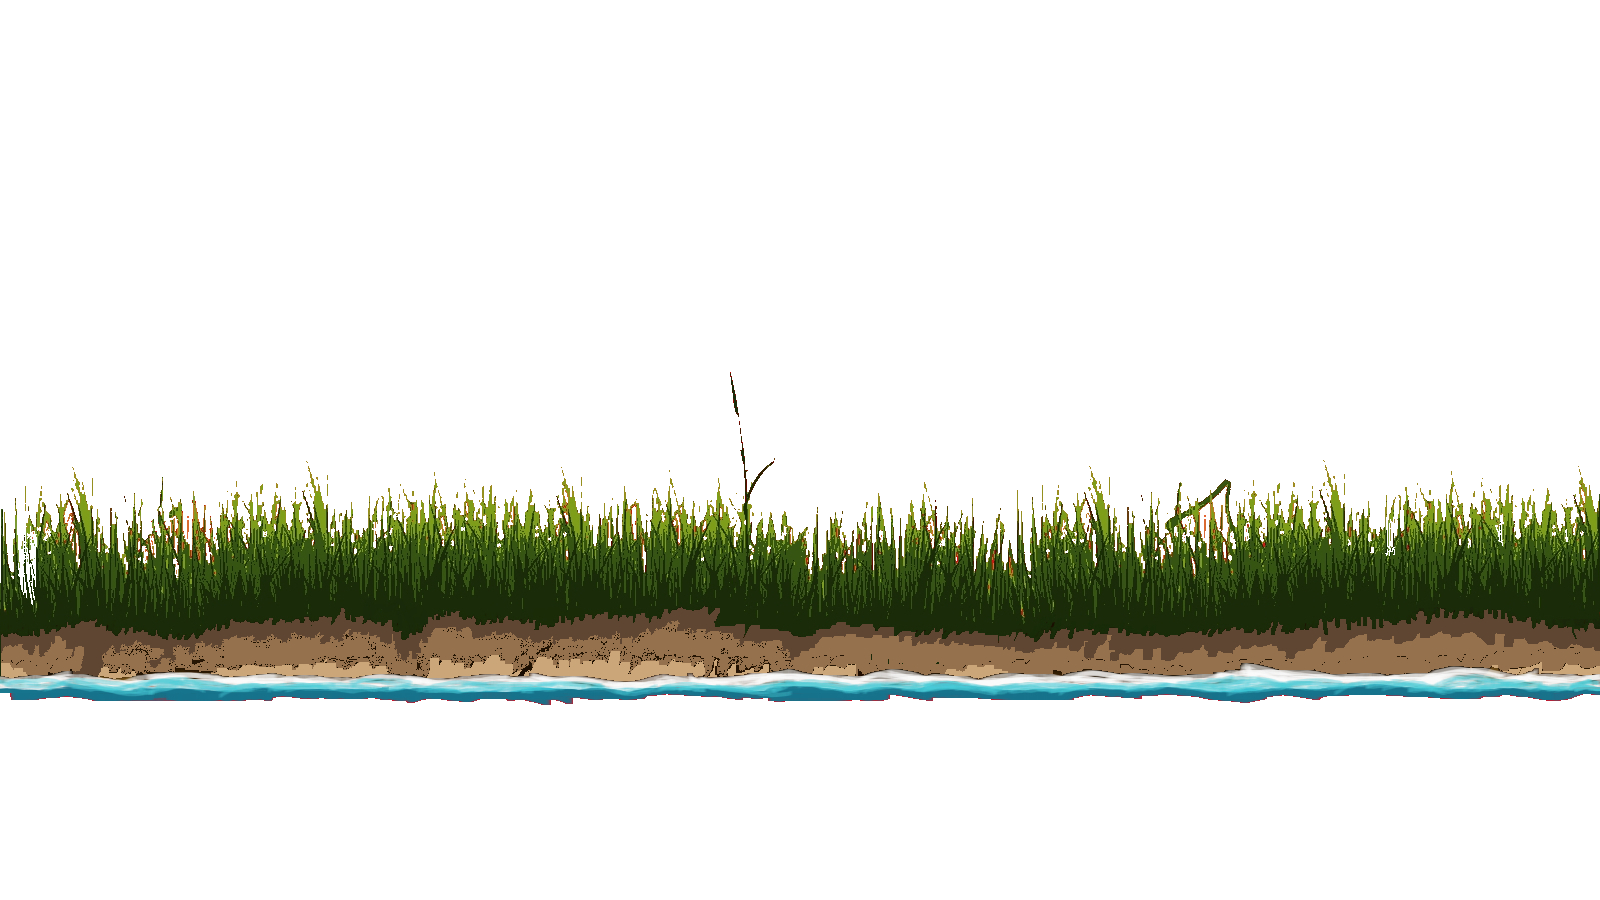
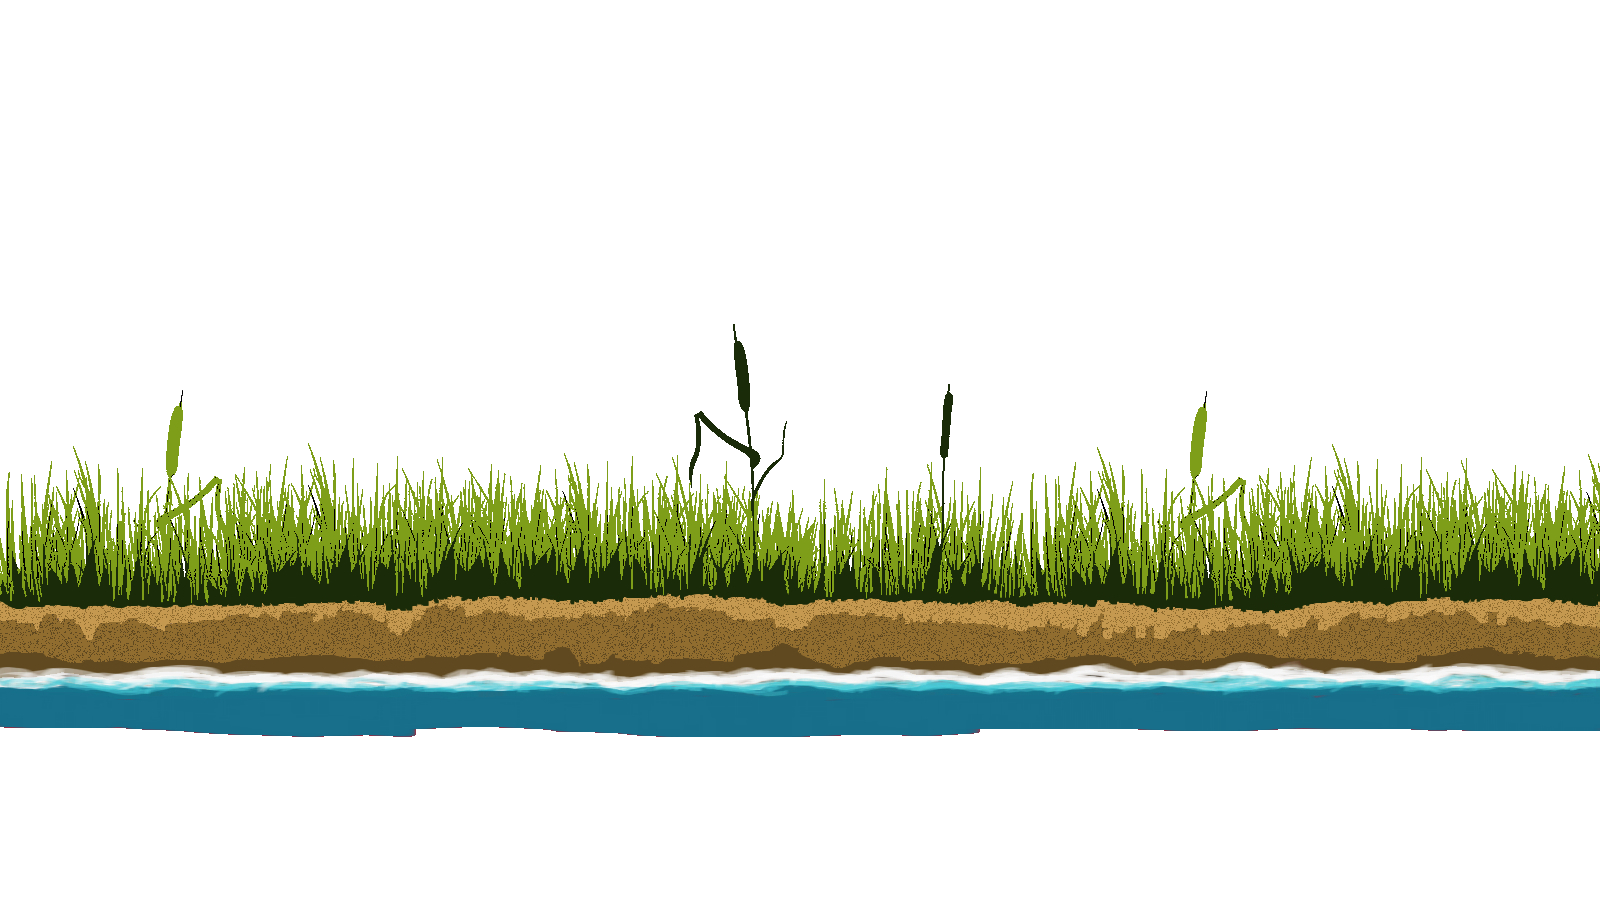
edit background header

Changed region(s): [[0.0, 0.4356, 1.0, 0.84], [0.4375, 0.3733, 0.4688, 0.4978]]

diff --git a/index.js b/index.js
@@ -3,14 +3,14 @@ let header = document.getElementById('header');
 let text = document.getElementById('text');
 let bird1 = document.getElementById('bird1');
 let bird2 = document.getElementById('bird2');
-//let cloud1 = document.getElementById('cloud1');
-//let cloud2 = document.getElementById('cloud2');
-//let sun = document.getElementById('sun');
+let cloud1 = document.getElementById('cloud1');
+let cloud2 = document.getElementById('cloud2');
+let sun = document.getElementById('sun');
 let back = document.getElementById('back');
 let actioncounter = document.getElementById('actioncounter');
-//let plants = document.getElementById('plants');
-//let turtle = document.getElementById('turtle');
-//let fish = document.getElementById('fish');
+let plants = document.getElementById('plants');
+let turtle = document.getElementById('turtle');
+let fish = document.getElementById('fish');
 let piles1 = document.getElementById('piles1');
 let piles2 = document.getElementById('piles2');
 let water = document.getElementById('water');
@@ -23,15 +23,15 @@ window.addEventListener('scroll', () => {
  bird1.style.left = value * -2 + 'px';
  bird2.style.top = value * -1.5 + 'px';
  bird2.style.left = value * 5 + 'px';
- //cloud1.style.left = value * -2 + 'px';
- //cloud2.style.left = value * 5 + 'px';
- //sun.style.left = value * -0.5 + 'px';
- //sun.style.top = value * 0.25 + 'px';
+ cloud1.style.left = value * -2 + 'px';
+ cloud2.style.left = value * 5 + 'px';
+ sun.style.left = value * -0.5 + 'px';
+ sun.style.top = value * 0.25 + 'px';
  actioncounter.style.marginTop = value * 0.5 + 'px';
  back.style.top = value * -0.15 + 'px';
- //plants.style.top = value * 0.025 + 'px';
- //fish.style.left = value * 0.55 + 'px';
- //turtle.style.left = value * -0.5 + 'px';
+ plants.style.top = value * 0.025 + 'px';
+ fish.style.left = value * 0.55 + 'px';
+ turtle.style.left = value * -0.5 + 'px';
  piles1.style.left = value * -3 + 'px';
  piles2.style.left = value * 3 + 'px';
  

diff --git a/index.html b/index.html
@@ -64,9 +64,9 @@
         	<h1 id="text"><span>Les insurgés</span><br>des<br><span>déchets</span></h1>
         	
         	
-        	<!--<img src="img/sun.png" alt="" id="sun">-->
-        	<!--<img src="img/cloud1.png" alt="" id="cloud1">-->
-        	<!--<img src="img/cloud2.png" alt="" id="cloud2">-->
+        	<img src="img/sun.png" alt="" id="sun">
+        	<img src="img/cloud1.png" alt="" id="cloud1">
+        	<img src="img/cloud2.png" alt="" id="cloud2">
         	<img src="img/bird1.png" alt="" id="bird1">
         	<img src="img/bird2.png" alt="" id="bird2">
         	<img src="img/back.png" alt="" id="back">
@@ -79,10 +79,10 @@
                     <div id="seconds">?</div>
                 </div>
             </div>
-        	<!--<img src="img/plants.png" alt="" id="plants">-->
+        	<img src="img/plants.png" alt="" id="plants">
         	<img src="img/water.png" alt="" id="water">
-        	<!--<img src="img/turtle.png" alt="" id="turtle">-->
-        	<!--<img src="img/fish.png" alt="" id="fish">-->
+        	<img src="img/turtle.png" alt="" id="turtle">
+        	<img src="img/fish.png" alt="" id="fish">
         	<img src="img/piles1.png" alt="" id="piles1">
         	<img src="img/piles2.png" alt="" id="piles2">
         	
